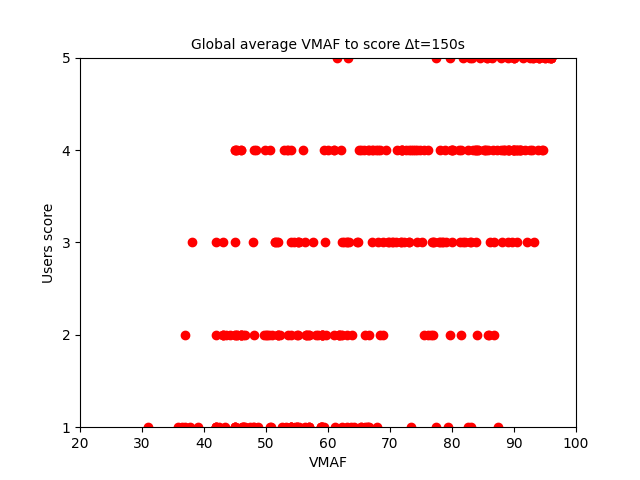
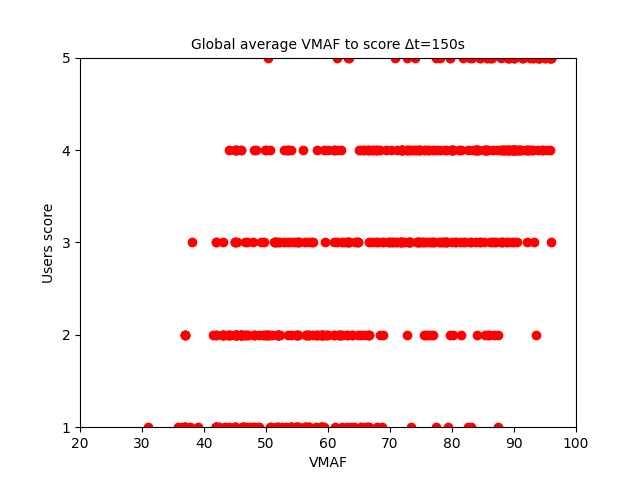
The newest data, databases moved to OneDrive

diff --git a/__config__.py b/__config__.py
@@ -10,7 +10,7 @@ for db in DB_NAMES:
         os.remove(f"./{DATABASES_DIR}/{db}")
 
 # DB_NAME = os.listdir(f"./{DATABASES_DIR}")[0]
-DB_NAME = 'database.db'
+DB_NAME = 'database_seniors.db'
 CONN = sqlite3.connect(f"{DATABASES_DIR}/{DB_NAME}")
 CONNECTION = CONN.cursor()
 
@@ -20,3 +20,5 @@ TESTERS_ID = []
 
 for data in CONNECTION.fetchall():
     TESTERS_ID.append(data[0])
+
+SENIORS = [217, 218, 219, 220, 221, 222, 224, 225]

diff --git a/global_average_vmaf_to_score.py b/global_average_vmaf_to_score.py
@@ -26,7 +26,7 @@ def global_average_vmaf_to_score(scope):
         connection = conn.cursor()
 
         sql_request = f"select assessment.timestamp, assessment.value " \
-                      f"from assessment "
+                      f"from assessment"
 
         assessment = []
         sql_response = sql(sql_request, connection)
